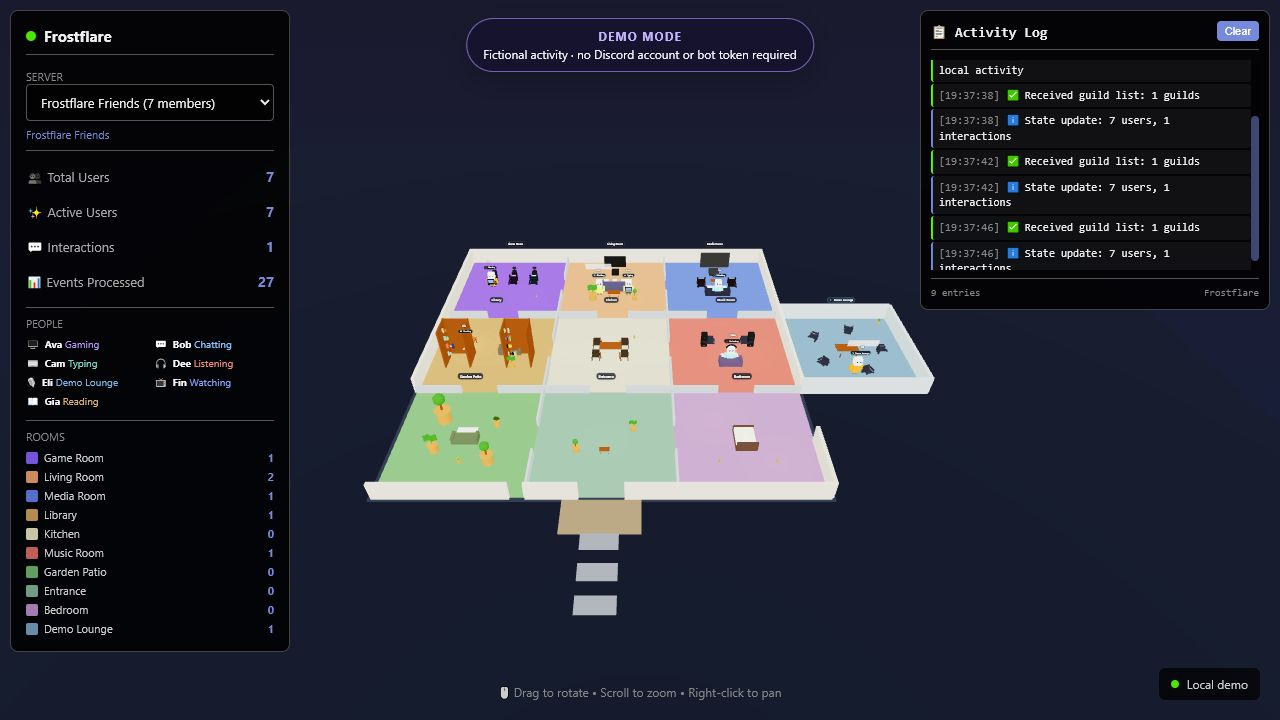
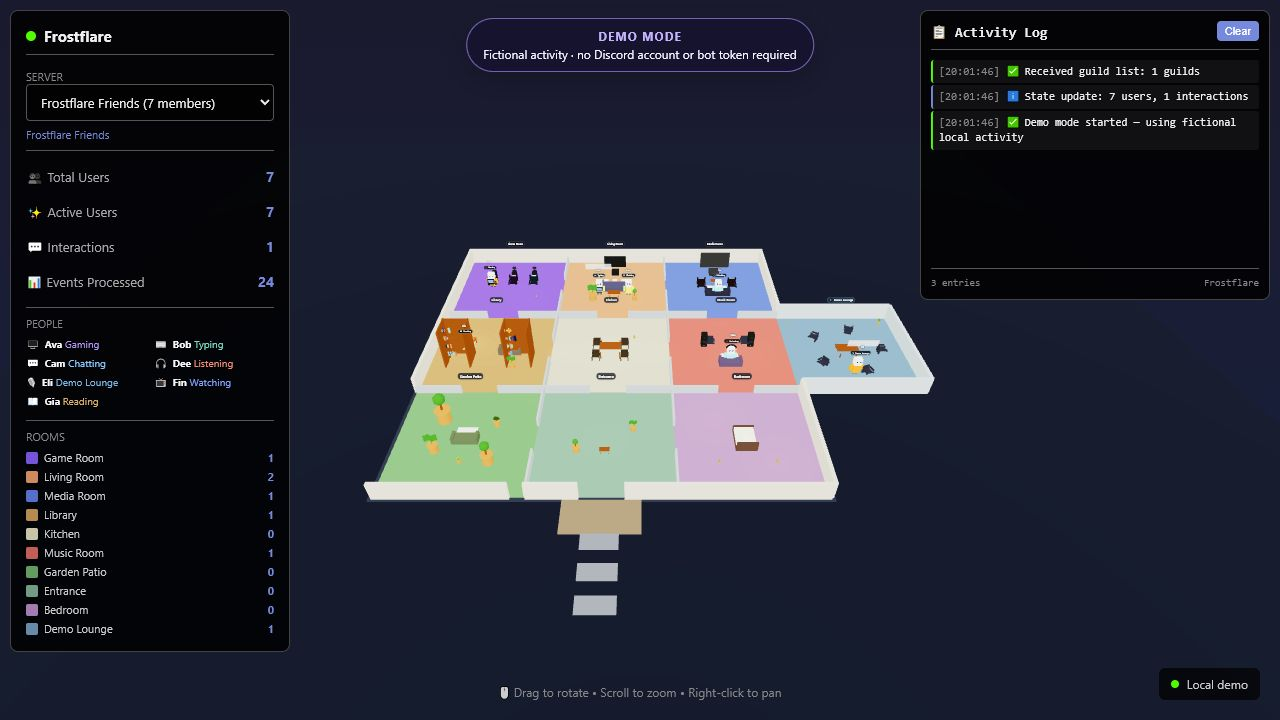
Fix voice room routing and access

diff --git a/frontend/src/data/houseLayout.ts b/frontend/src/data/houseLayout.ts
@@ -2,6 +2,8 @@ import type { Room, UserState } from "../types";
 
 export const ROOM_SIZE = 10;
 export const VOICE_WING_X = 20;
+export const HOUSE_MIN_Z = -15;
+export const HOUSE_MAX_Z = 15;
 
 // A single, contiguous 3x3 ground floor. The entrance sits on the front edge.
 export const HOUSE_ROOMS: Room[] = [
@@ -33,8 +35,41 @@ export function getVoiceRoomPosition(index: number, total: number) {
 }
 
 export function userBelongsInRoom(user: UserState, roomId: string): boolean {
-  if (user.currentRoom === roomId) return true;
-  return Boolean(user.voiceChannelId && getVoiceRoomId(user.voiceChannelId) === roomId);
+  if (user.voiceChannelId) {
+    return getVoiceRoomId(user.voiceChannelId) === roomId;
+  }
+  return user.currentRoom === roomId;
+}
+
+export function getEastExteriorWallSegments(voiceRooms: Room[]) {
+  if (voiceRooms.length === 0) {
+    return [{ centerZ: 0, length: HOUSE_MAX_Z - HOUSE_MIN_Z }];
+  }
+
+  const openingMin = Math.max(
+    HOUSE_MIN_Z,
+    Math.min(...voiceRooms.map((room) => room.position.z - room.size.z / 2)),
+  );
+  const openingMax = Math.min(
+    HOUSE_MAX_Z,
+    Math.max(...voiceRooms.map((room) => room.position.z + room.size.z / 2)),
+  );
+  const segments: Array<{ centerZ: number; length: number }> = [];
+
+  if (openingMin > HOUSE_MIN_Z) {
+    segments.push({
+      centerZ: (HOUSE_MIN_Z + openingMin) / 2,
+      length: openingMin - HOUSE_MIN_Z,
+    });
+  }
+  if (openingMax < HOUSE_MAX_Z) {
+    segments.push({
+      centerZ: (openingMax + HOUSE_MAX_Z) / 2,
+      length: HOUSE_MAX_Z - openingMax,
+    });
+  }
+
+  return segments;
 }
 
 export function buildRooms(users: UserState[]): Room[] {

diff --git a/backend/src/agent/nodes/ingest.ts b/backend/src/agent/nodes/ingest.ts
@@ -111,16 +111,6 @@ async function handleMessage(
 
   const user = users.get(userId)!;
   user.lastActivity = new Date();
-
-  // Synthetic startup presences include current voice state, so the first
-  // rendered snapshot already matches the channel members are actually in.
-  if (data.inVoiceChannel && data.voiceChannelId) {
-    user.inVoiceChannel = true;
-    user.voiceChannelId = data.voiceChannelId;
-    user.voiceChannelName = data.voiceChannelName || "Voice Channel";
-    user.activityType = "voice_chat";
-    user.action = "talking";
-  }
   user.activityType = "chatting";
   user.action = "talking";
   user.recentMessages = user.recentMessages || [];
@@ -316,6 +306,18 @@ async function handlePresenceUpdate(
     }
   } else {
     user.richPresence = "";
+  }
+
+  // Synthetic startup presences include current voice state, so the first
+  // rendered snapshot already matches the channel members are actually in.
+  if (data.inVoiceChannel && data.voiceChannelId) {
+    user.inVoiceChannel = true;
+    user.voiceChannelId = data.voiceChannelId;
+    user.voiceChannelName = data.voiceChannelName || "Voice Channel";
+    if (!user.richPresence) {
+      user.activityType = "voice_chat";
+      user.action = "talking";
+    }
   }
 
   console.log(`[Ingest] ${user.username} presence update: ${data.status}`);

diff --git a/frontend/src/components/HouseShell.tsx b/frontend/src/components/HouseShell.tsx
@@ -1,5 +1,6 @@
 import React from "react";
 import type { Room } from "../types";
+import { getEastExteriorWallSegments } from "../data/houseLayout";
 
 interface HouseShellProps {
   rooms: Room[];
@@ -53,6 +54,7 @@ export const HouseShell: React.FC<HouseShellProps> = ({ rooms }) => {
   const voiceMaxZ = voiceRooms.length > 0
     ? Math.max(...voiceRooms.map((room) => room.position.z + room.size.z / 2))
     : 0;
+  const eastWallSegments = getEastExteriorWallSegments(voiceRooms);
 
   return (
     <group>
@@ -65,8 +67,13 @@ export const HouseShell: React.FC<HouseShellProps> = ({ rooms }) => {
       {/* Exterior walls, with an open front door and an open garden patio edge. */}
       <Wall position={[0, 0.75, -15]} size={[30.3, 1.5, 0.28]} />
       <Wall position={[-15, 0.75, -5]} size={[0.28, 1.5, 20]} />
-      <Wall position={[15, 0.75, -5]} size={[0.28, 1.5, 20]} />
-      <Wall position={[15, 0.75, 12.5]} size={[0.28, 1.5, 5]} />
+      {eastWallSegments.map((segment) => (
+        <Wall
+          key={`east-${segment.centerZ}`}
+          position={[15, 0.75, segment.centerZ]}
+          size={[0.28, 1.5, segment.length]}
+        />
+      ))}
       <Wall position={[-10.5, 0.75, 15]} size={[9, 1.5, 0.28]} />
       <Wall position={[-3.25, 0.75, 15]} size={[3.5, 1.5, 0.28]} />
       <Wall position={[3.25, 0.75, 15]} size={[3.5, 1.5, 0.28]} />

diff --git a/frontend/src/data/houseLayout.test.ts b/frontend/src/data/houseLayout.test.ts
@@ -4,6 +4,7 @@ import { createDemoSnapshot } from "./demo";
 import {
   HOUSE_ROOMS,
   buildRooms,
+  getEastExteriorWallSegments,
   getVoiceRoomId,
   userBelongsInRoom,
 } from "./houseLayout";
@@ -46,7 +47,17 @@ test("voice rooms use the channel name, canonical id, and attached wing", () => 
 
   const roomId = getVoiceRoomId(voiceUser.voiceChannelId);
   const voiceRoom = rooms.find((room) => room.id === roomId);
+  assert.ok(voiceRoom);
   assert.equal(voiceRoom?.name, voiceUser.voiceChannelName);
   assert.equal(voiceRoom?.position.x, 20);
   assert.equal(userBelongsInRoom(voiceUser, roomId), true);
+
+  const staleActivityRoomUser = { ...voiceUser, currentRoom: "living_room" };
+  assert.equal(userBelongsInRoom(staleActivityRoomUser, "living_room"), false);
+  assert.equal(userBelongsInRoom(staleActivityRoomUser, roomId), true);
+
+  assert.deepEqual(getEastExteriorWallSegments([voiceRoom]), [
+    { centerZ: -10, length: 10 },
+    { centerZ: 10, length: 10 },
+  ]);
 });

diff --git a/backend/src/agent/graph.smoke.test.ts b/backend/src/agent/graph.smoke.test.ts
@@ -28,6 +28,9 @@ test("a synthetic Discord event traverses the graph and produces wire state", as
           status: "online",
           activities: [],
           clientStatus: { desktop: "online" },
+          inVoiceChannel: true,
+          voiceChannelId: "smoke-lounge",
+          voiceChannelName: "Smoke Lounge",
         },
       },
     ]);
@@ -37,6 +40,9 @@ test("a synthetic Discord event traverses the graph and produces wire state", as
     assert.equal(broadcast.users.length, 1);
     assert.equal(broadcast.users[0].id, "smoke-user");
     assert.equal(broadcast.users[0].guildId, "smoke-guild");
+    assert.equal(broadcast.users[0].voiceChannelId, "smoke-lounge");
+    assert.equal(broadcast.users[0].voiceChannelName, "Smoke Lounge");
+    assert.equal(broadcast.users[0].targetPosition.x, 20);
     assert.match(broadcast.timestamp, /^\d{4}-\d{2}-\d{2}T/);
   } finally {
     setWsBroadcast(() => undefined);